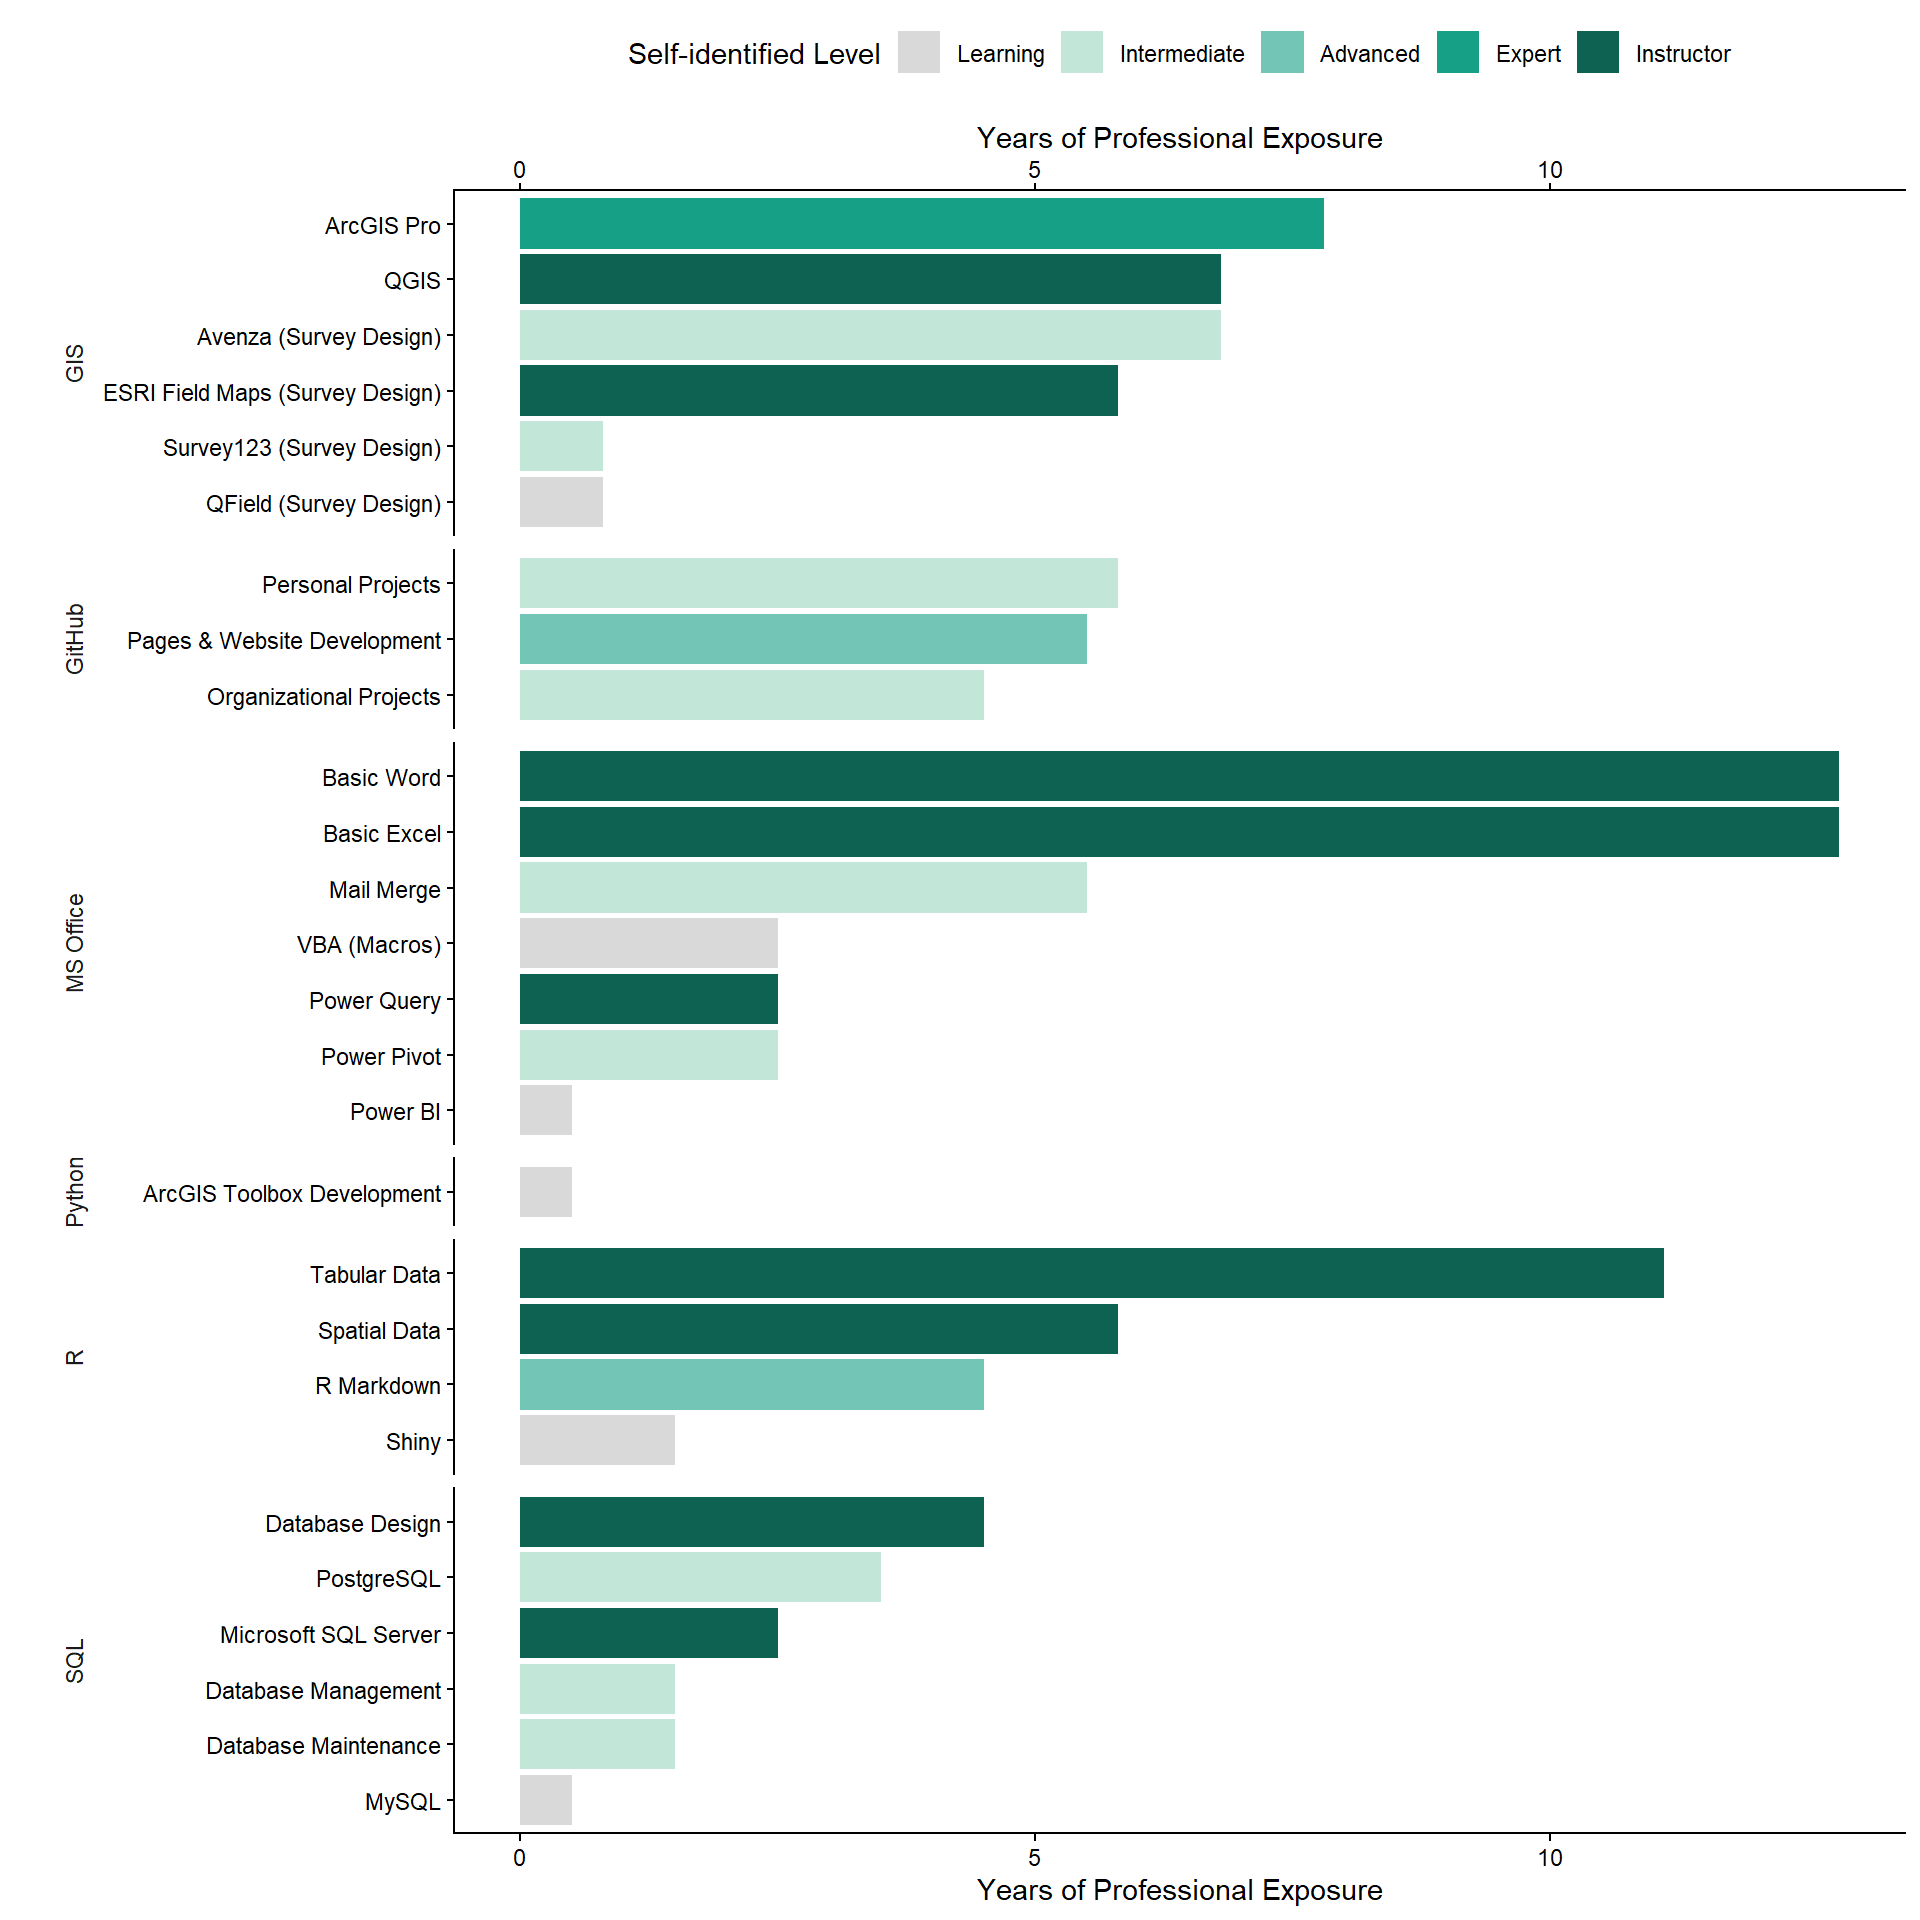
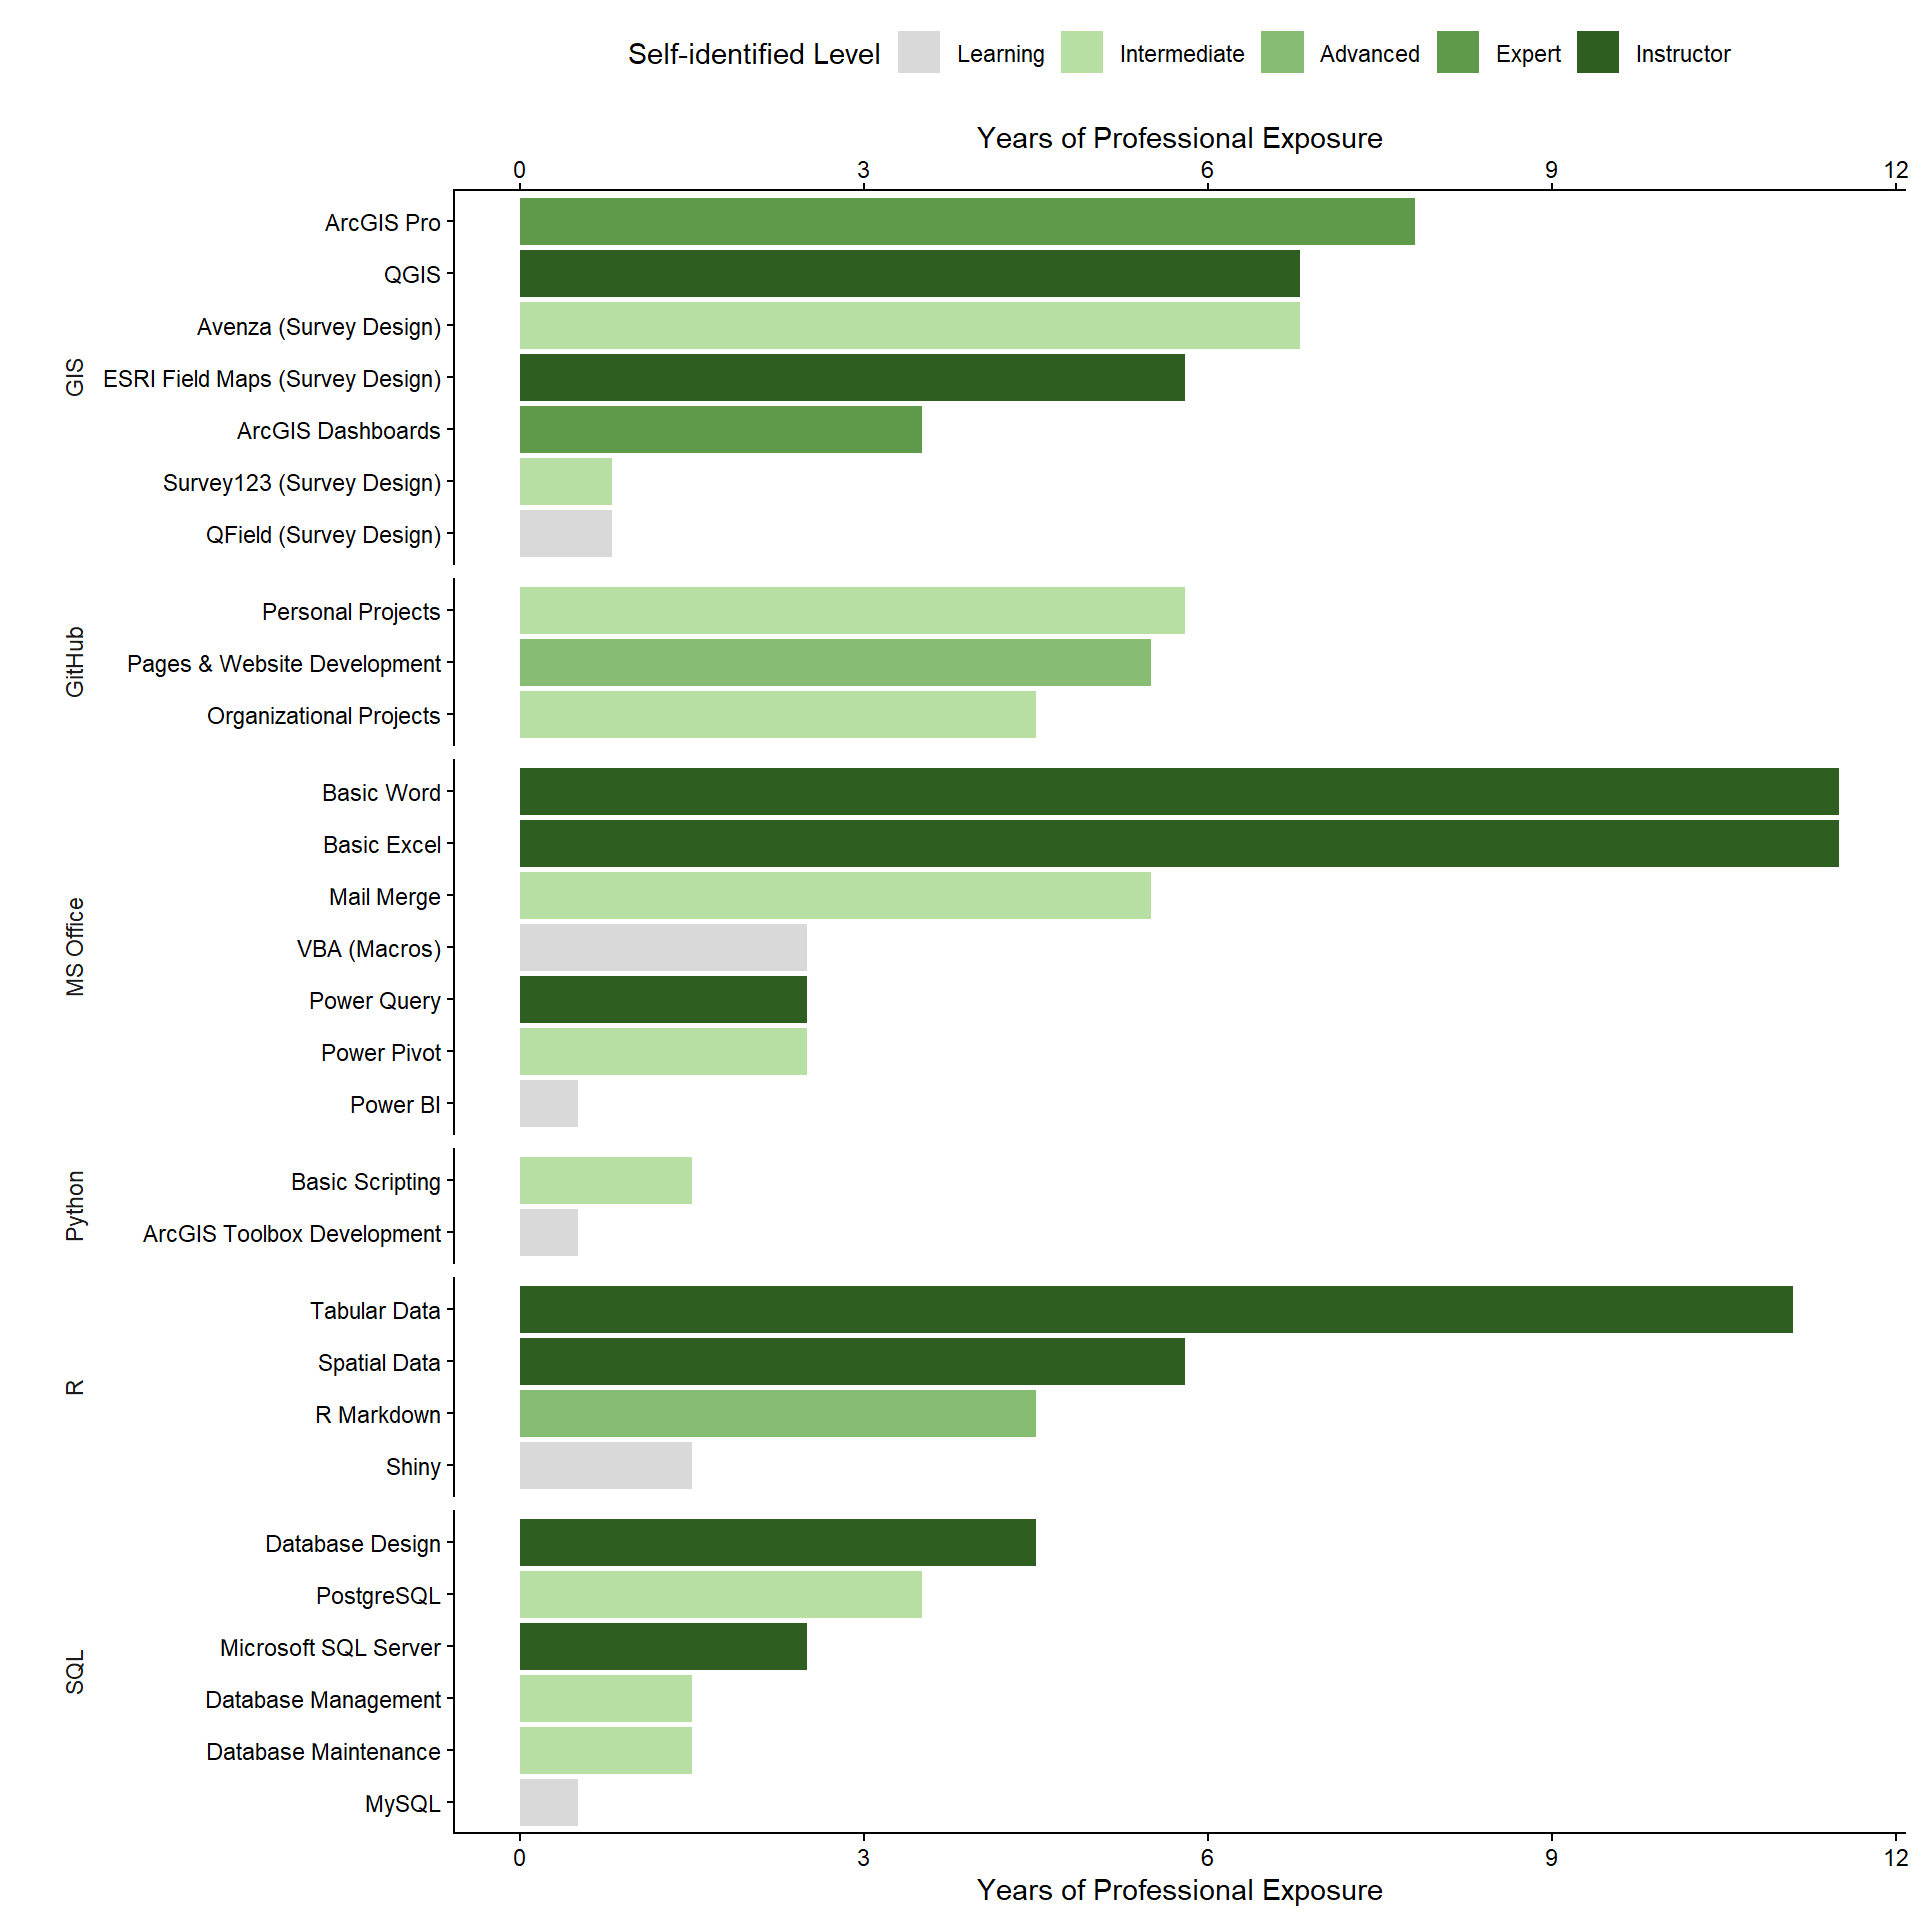
Update 2026 (3)

diff --git a/docs/cv.html b/docs/cv.html
@@ -523,8 +523,8 @@ backgrounds.</p></li>
 <h3>Description</h3>
 <p><strong>Data Analyst</strong></p>
 <ul>
-<li><p>Short term contract conducting data analyses and consulting on
-data management protocols.</p></li>
+<li><p>Short term contract conducting analyses and consulting on data
+management protocols.</p></li>
 <li><p>Assisted in the creation of dashboards for visualizing impact of
 monitoring and stewardship initiatives across Canada.</p></li>
 </ul>
@@ -819,7 +819,8 @@ Ecology</strong></p>
 <li><p>Completed two independent undergraduate theses and a year long
 laboratory contract.</p></li>
 <li><p>Conducted scientific literature reviews and experiments.</p></li>
-<li><p>Presented results at three scientific conferences. Awarded two
+<li><p>Published one peer-reveiwed article in a prestigious scientific
+journal. Presented results at three scientific conferences. Awarded two
 undergraduate student research awards (USRAs).</p></li>
 <li><p>Developed skills in experimental design, adapting to changing
 conditions, and admitting mistakes. Distinguished between times to
@@ -1992,7 +1993,7 @@ Magazine (Fall 2020)</a></h3>
 </div>
 </div>
 <div class="header">
-<p>Last Updated: Mon Jun 15 12:03:41 2026 <a
+<p>Last Updated: Mon Jun 15 13:46:04 2026 <a
 href="https://github.com/zacharymilosmoore/zacharymilosmoore.github.io">GitHub
 Source</a></p>
 </div>

diff --git a/docs/contact.html b/docs/contact.html
@@ -297,7 +297,7 @@ href="https://inaturalist.ca/people/zacharymilosmoore">iNaturalist</a> |
 href="https://www.linkedin.com/in/zacharymilosmoore">LinkedIn</a></p>
 <div class="header">
 <p>Last Updated:</p>
-<p>Mon Jun 15 12:03:40 2026</p>
+<p>Mon Jun 15 13:46:02 2026</p>
 <p><a
 href="https://github.com/zacharymilosmoore/zacharymilosmoore.github.io">GitHub
 Source</a></p>

diff --git a/docs/index.html b/docs/index.html
@@ -329,7 +329,7 @@ self-identified proficiency. ‘Instructor’ indicates skills which I teach
 at the post-secondary level.</i></p>
 </div>
 <div class="header">
-<p>Last Updated: Mon Jun 15 12:15:12 2026 <a
+<p>Last Updated: Mon Jun 15 13:48:45 2026 <a
 href="https://github.com/zacharymilosmoore/zacharymilosmoore.github.io">GitHub
 Source</a></p>
 </div>